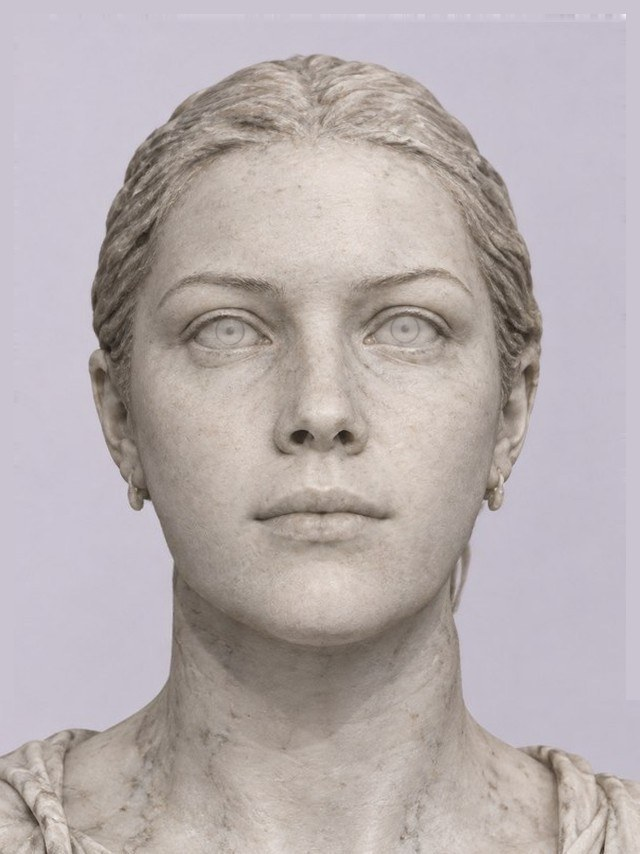
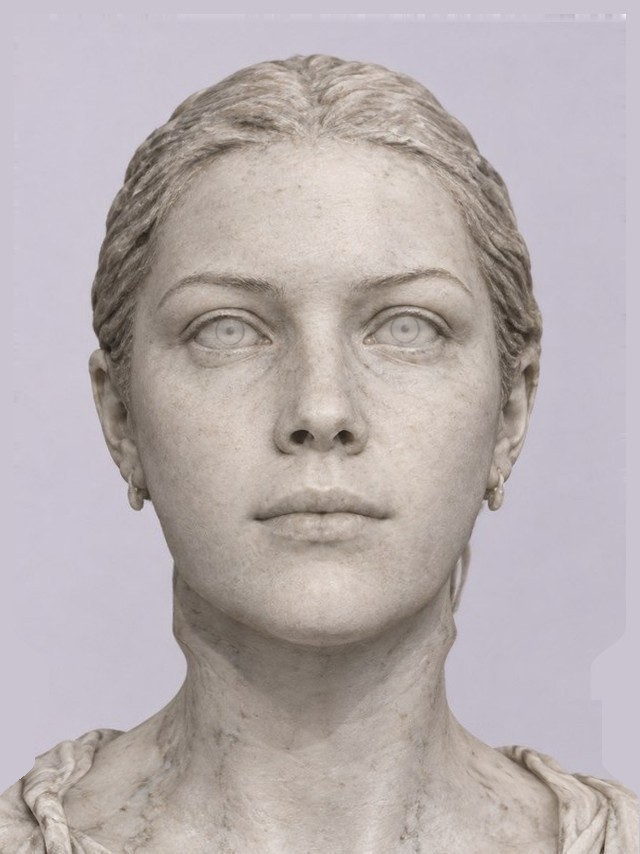
About us: cuello de Sarah más delgado; nariz de Felipe más larga y ojos con más contraste

diff --git a/de/about-us/index.html b/de/about-us/index.html
@@ -89,7 +89,7 @@
           <div class="fl-grid"><div class="fl-obra"><h4>The Heart Is Not a Bomb</h4><ul><li><span class="fl-cat">Official Selection</span> <span class="fl-fest">Cine y Derechos Humanos</span> <span class="fl-pais">Spain · 2025</span></li><li><span class="fl-cat">Official Selection</span> <span class="fl-fest">InShadow</span> <span class="fl-pais">Portugal · 2025</span></li><li><span class="fl-cat">Official Selection</span> <span class="fl-fest">Mexico City Videodance</span> <span class="fl-pais">Mexico · 2025</span></li></ul></div><div class="fl-obra"><h4>To Dwell</h4><ul><li class="premio"><span class="fl-cat">Best Choreography</span> <span class="fl-fest">Movimiento Audiovisual</span> <span class="fl-pais">Mexico · 2023</span></li><li><span class="fl-cat">Official Selection</span> <span class="fl-fest">Max Sir</span> <span class="fl-pais">Ukraine · 2024</span></li><li><span class="fl-cat">Official Selection</span> <span class="fl-fest">Bridges</span> <span class="fl-pais">United States · 2023</span></li><li><span class="fl-cat">Official Selection</span> <span class="fl-fest">Cuerpo Digital</span> <span class="fl-pais">Bolivia · 2023</span></li></ul></div><div class="fl-obra"><h4>Ahora Somos Nosotres</h4><ul><li class="premio"><span class="fl-cat">Best Sound &amp; Music</span> <span class="fl-fest">Style, Experimental, Fashion Film Festival</span> <span class="fl-pais">2023</span></li><li><span class="fl-cat">Official Selection</span> <span class="fl-fest">Style, Experimental, Fashion Film Festival</span> <span class="fl-pais">2023</span></li></ul></div><div class="fl-obra"><h4>Ecdysis: Actions for Shedding Skin. Liquefy</h4><ul><li><span class="fl-cat">Official Selection</span> <span class="fl-fest">Cine Bio-Bío</span> <span class="fl-pais">Chile</span></li><li><span class="fl-cat">Official Selection</span> <span class="fl-fest">Santiago a Mil</span> <span class="fl-pais">Chile</span></li></ul></div><div class="fl-obra"><h4>Escape</h4><ul><li class="premio"><span class="fl-cat">Honorable Mention</span> <span class="fl-fest">Mexico City Videodance</span> <span class="fl-pais">Mexico · 2021</span></li><li class="premio"><span class="fl-cat">Finalist</span> <span class="fl-fest">Dance Camera West</span> <span class="fl-pais">United States</span></li><li><span class="fl-cat">Official Selection</span> <span class="fl-fest">Bucharest Dance Film</span> <span class="fl-pais">Romania · 2020</span></li><li><span class="fl-cat">Official Selection</span> <span class="fl-fest">InShadow</span> <span class="fl-pais">Portugal · 2020</span></li><li><span class="fl-cat">Official Selection</span> <span class="fl-fest">LA Dance Shorts</span> <span class="fl-pais">United States · 2020</span></li><li><span class="fl-cat">Official Selection</span> <span class="fl-fest">Screendance Miami</span> <span class="fl-pais">United States · 2021</span></li><li><span class="fl-cat">Official Selection</span> <span class="fl-fest">CAPITOL Dance &amp; Cinema</span> <span class="fl-pais">United States · 2020</span></li><li><span class="fl-cat">Official Selection</span> <span class="fl-fest">Cascadia Dance &amp; Cinema</span> <span class="fl-pais">Canada · 2020</span></li><li><span class="fl-cat">Official Selection</span> <span class="fl-fest">Artes Mediales</span> <span class="fl-pais">Chile</span></li><li><span class="fl-cat">Official Selection</span> <span class="fl-fest">Fintdaz</span> <span class="fl-pais">Chile · 2020</span></li></ul></div><div class="fl-obra"><h4>misoginia Pandora</h4><ul><li class="premio"><span class="fl-cat">Best Film</span> <span class="fl-fest">Imagitari DJK Fest</span> <span class="fl-pais">Indonesia · 2018</span></li><li><span class="fl-cat">Official Selection</span> <span class="fl-fest">Iowa ScreenDance</span> <span class="fl-pais">United States</span></li><li><span class="fl-cat">Official Selection</span> <span class="fl-fest">Festival ABC</span> <span class="fl-pais">Spain</span></li><li><span class="fl-cat">Official Selection</span> <span class="fl-fest">Dança em Foco</span> <span class="fl-pais">Brazil</span></li><li><span class="fl-cat">Official Selection</span> <span class="fl-fest">Video Danza Chile</span> <span class="fl-pais">Chile · 2017</span></li><li><span class="fl-cat">Official Selection</span> <span class="fl-fest">Cine Ituzaingó</span> <span class="fl-pais">Argentina</span></li><li><span class="fl-cat">Official Selection</span> <span class="fl-fest">Flexiff</span> <span class="fl-pais">Australia · 2017</span></li><li><span class="fl-cat">Official Selection</span> <span class="fl-fest">FIDIC Cocoa</span> <span class="fl-pais">Argentina</span></li><li><span class="fl-cat">Official Selection</span> <span class="fl-fest">Intermediaciones</span> <span class="fl-pais">Colombia</span></li><li><span class="fl-cat">Official Selection</span> <span class="fl-fest">São Carlos Videodance</span> <span class="fl-pais">Brazil</span></li><li><span class="fl-cat">Official Selection</span> <span class="fl-fest">La mida no importa</span> <span class="fl-pais">Spain</span></li><li><span class="fl-cat">Official Selection</span> <span class="fl-fest">Bugarte</span> <span class="fl-pais">Colombia · 2017</span></li><li><span class="fl-cat">Official Selection</span> <span class="fl-fest">MiTS</span> <span class="fl-pais">Spain</span></li><li><span class="fl-cat">Official Selection</span> <span class="fl-fest">Sardinian Festival</span> <span class="fl-pais">Italy</span></li><li><span class="fl-cat">Official Selection</span> <span class="fl-fest">CCPC</span> <span class="fl-pais">Costa Rica</span></li><li><span class="fl-cat">Official Selection</span> <span class="fl-fest">Bekraf Fest</span> <span class="fl-pais">Indonesia</span></li><li><span class="fl-cat">Official Selection</span> <span class="fl-fest">FICESMI</span> <span class="fl-pais">Argentina</span></li></ul></div><div class="fl-obra"><h4>misoginia EVA</h4><ul><li><span class="fl-cat">Official Selection</span> <span class="fl-fest">Danzalborde</span> <span class="fl-pais">Chile · 2016</span></li><li><span class="fl-cat">Official Selection</span> <span class="fl-fest">InVe</span> <span class="fl-pais">Chile · 2016</span></li><li><span class="fl-cat">Official Selection</span> <span class="fl-fest">Athens Video Dance Project</span> <span class="fl-pais">Griechenland · 2016</span></li><li><span class="fl-cat">Official Selection</span> <span class="fl-fest">El Cruce</span> <span class="fl-pais">Argentina · 2016</span></li><li><span class="fl-cat">Official Selection</span> <span class="fl-fest">LUMEN</span> <span class="fl-pais">Chile · 2016</span></li></ul></div><div class="fl-obra"><h4>SUBE / Al aire el río</h4><ul><li class="premio"><span class="fl-cat">Gewinner</span> <span class="fl-fest">Animal &amp; Environmental</span> <span class="fl-pais">Mexico · 2021</span></li><li><span class="fl-cat">Official Selection</span> <span class="fl-fest">AQP Festival</span> <span class="fl-pais">Peru · 2021</span></li><li><span class="fl-cat">Official Selection</span> <span class="fl-fest">Cinelebu</span> <span class="fl-pais">Chile · 2022</span></li></ul></div><div class="fl-obra"><h4>SUBE / Ramato</h4><ul><li><span class="fl-cat">Official Selection</span> <span class="fl-fest">BioBioCine</span> <span class="fl-pais">Chile · 2019</span></li></ul></div></div>
         </details>
         <div class="director">
-          <span class="estatua" tabindex="0"><img class="director-foto" src="../../img/director.jpg?v=2" alt="Felipe Díaz Galarce" width="640" height="854" loading="lazy"><img class="director-foto marmol" src="../../img/director-estatua.jpg?v=8" alt="" aria-hidden="true" width="640" height="854" loading="lazy"></span>
+          <span class="estatua" tabindex="0"><img class="director-foto" src="../../img/director.jpg?v=2" alt="Felipe Díaz Galarce" width="640" height="854" loading="lazy"><img class="director-foto marmol" src="../../img/director-estatua.jpg?v=9" alt="" aria-hidden="true" width="640" height="854" loading="lazy"></span>
           <div>
             <p class="firma"><strong>Felipe Díaz Galarce</strong> — Regisseur</p>
         <p>Vor dem Film zwölf Jahre Theater als Schauspieler, Autor und Regisseur sowie Produzent der Theaterkompanie Turba (2009–2019). Er tanzt zeitgenössischen Tanz und Contact Improvisation mit der Kompanie <strong>mundomoebio</strong>, mit der er in Argentinien, Peru, Chile, Brasilien, Kanada und China aufgetreten ist.</p>
@@ -98,7 +98,7 @@
           </div>
         </div>
         <div class="director socia">
-          <span class="estatua" tabindex="0"><img class="director-foto" src="../../img/sarah.jpg?v=3" alt="Sarah Stachova" width="640" height="854" loading="lazy"><img class="director-foto marmol" src="../../img/sarah-estatua.jpg?v=9" alt="" aria-hidden="true" width="640" height="854" loading="lazy"></span>
+          <span class="estatua" tabindex="0"><img class="director-foto" src="../../img/sarah.jpg?v=3" alt="Sarah Stachova" width="640" height="854" loading="lazy"><img class="director-foto marmol" src="../../img/sarah-estatua.jpg?v=10" alt="" aria-hidden="true" width="640" height="854" loading="lazy"></span>
           <div>
             <p class="firma"><strong>Sarah Stachova</strong> — Management &amp; Kommunikation</p>
             <p>Management und Kommunikation, Deutsch als Muttersprache; sie spricht außerdem Englisch, Spanisch und Slowakisch.</p>

diff --git a/es/about-us/index.html b/es/about-us/index.html
@@ -89,7 +89,7 @@
           <div class="fl-grid"><div class="fl-obra"><h4>El corazón no es una bomba</h4><ul><li><span class="fl-cat">Official Selection</span> <span class="fl-fest">Cine y Derechos Humanos</span> <span class="fl-pais">Spain · 2025</span></li><li><span class="fl-cat">Official Selection</span> <span class="fl-fest">InShadow</span> <span class="fl-pais">Portugal · 2025</span></li><li><span class="fl-cat">Official Selection</span> <span class="fl-fest">Mexico City Videodance</span> <span class="fl-pais">Mexico · 2025</span></li></ul></div><div class="fl-obra"><h4>Morar</h4><ul><li class="premio"><span class="fl-cat">Best Choreography</span> <span class="fl-fest">Movimiento Audiovisual</span> <span class="fl-pais">Mexico · 2023</span></li><li><span class="fl-cat">Official Selection</span> <span class="fl-fest">Max Sir</span> <span class="fl-pais">Ukraine · 2024</span></li><li><span class="fl-cat">Official Selection</span> <span class="fl-fest">Bridges</span> <span class="fl-pais">United States · 2023</span></li><li><span class="fl-cat">Official Selection</span> <span class="fl-fest">Cuerpo Digital</span> <span class="fl-pais">Bolivia · 2023</span></li></ul></div><div class="fl-obra"><h4>Ahora Somos Nosotres</h4><ul><li class="premio"><span class="fl-cat">Best Sound &amp; Music</span> <span class="fl-fest">Style, Experimental, Fashion Film Festival</span> <span class="fl-pais">2023</span></li><li><span class="fl-cat">Official Selection</span> <span class="fl-fest">Style, Experimental, Fashion Film Festival</span> <span class="fl-pais">2023</span></li></ul></div><div class="fl-obra"><h4>Ecdisis acciones para mudar de piel. Licuar</h4><ul><li><span class="fl-cat">Official Selection</span> <span class="fl-fest">Cine Bio-Bío</span> <span class="fl-pais">Chile</span></li><li><span class="fl-cat">Official Selection</span> <span class="fl-fest">Santiago a Mil</span> <span class="fl-pais">Chile</span></li></ul></div><div class="fl-obra"><h4>Escape</h4><ul><li class="premio"><span class="fl-cat">Honorable Mention</span> <span class="fl-fest">Mexico City Videodance</span> <span class="fl-pais">Mexico · 2021</span></li><li class="premio"><span class="fl-cat">Finalist</span> <span class="fl-fest">Dance Camera West</span> <span class="fl-pais">United States</span></li><li><span class="fl-cat">Official Selection</span> <span class="fl-fest">Bucharest Dance Film</span> <span class="fl-pais">Romania · 2020</span></li><li><span class="fl-cat">Official Selection</span> <span class="fl-fest">InShadow</span> <span class="fl-pais">Portugal · 2020</span></li><li><span class="fl-cat">Official Selection</span> <span class="fl-fest">LA Dance Shorts</span> <span class="fl-pais">United States · 2020</span></li><li><span class="fl-cat">Official Selection</span> <span class="fl-fest">Screendance Miami</span> <span class="fl-pais">United States · 2021</span></li><li><span class="fl-cat">Official Selection</span> <span class="fl-fest">CAPITOL Dance &amp; Cinema</span> <span class="fl-pais">United States · 2020</span></li><li><span class="fl-cat">Official Selection</span> <span class="fl-fest">Cascadia Dance &amp; Cinema</span> <span class="fl-pais">Canada · 2020</span></li><li><span class="fl-cat">Official Selection</span> <span class="fl-fest">Artes Mediales</span> <span class="fl-pais">Chile</span></li><li><span class="fl-cat">Official Selection</span> <span class="fl-fest">Fintdaz</span> <span class="fl-pais">Chile · 2020</span></li></ul></div><div class="fl-obra"><h4>misoginia Pandora</h4><ul><li class="premio"><span class="fl-cat">Best Film</span> <span class="fl-fest">Imagitari DJK Fest</span> <span class="fl-pais">Indonesia · 2018</span></li><li><span class="fl-cat">Official Selection</span> <span class="fl-fest">Iowa ScreenDance</span> <span class="fl-pais">United States</span></li><li><span class="fl-cat">Official Selection</span> <span class="fl-fest">Festival ABC</span> <span class="fl-pais">Spain</span></li><li><span class="fl-cat">Official Selection</span> <span class="fl-fest">Dança em Foco</span> <span class="fl-pais">Brazil</span></li><li><span class="fl-cat">Official Selection</span> <span class="fl-fest">Video Danza Chile</span> <span class="fl-pais">Chile · 2017</span></li><li><span class="fl-cat">Official Selection</span> <span class="fl-fest">Cine Ituzaingó</span> <span class="fl-pais">Argentina</span></li><li><span class="fl-cat">Official Selection</span> <span class="fl-fest">Flexiff</span> <span class="fl-pais">Australia · 2017</span></li><li><span class="fl-cat">Official Selection</span> <span class="fl-fest">FIDIC Cocoa</span> <span class="fl-pais">Argentina</span></li><li><span class="fl-cat">Official Selection</span> <span class="fl-fest">Intermediaciones</span> <span class="fl-pais">Colombia</span></li><li><span class="fl-cat">Official Selection</span> <span class="fl-fest">São Carlos Videodance</span> <span class="fl-pais">Brazil</span></li><li><span class="fl-cat">Official Selection</span> <span class="fl-fest">La mida no importa</span> <span class="fl-pais">Spain</span></li><li><span class="fl-cat">Official Selection</span> <span class="fl-fest">Bugarte</span> <span class="fl-pais">Colombia · 2017</span></li><li><span class="fl-cat">Official Selection</span> <span class="fl-fest">MiTS</span> <span class="fl-pais">Spain</span></li><li><span class="fl-cat">Official Selection</span> <span class="fl-fest">Sardinian Festival</span> <span class="fl-pais">Italy</span></li><li><span class="fl-cat">Official Selection</span> <span class="fl-fest">CCPC</span> <span class="fl-pais">Costa Rica</span></li><li><span class="fl-cat">Official Selection</span> <span class="fl-fest">Bekraf Fest</span> <span class="fl-pais">Indonesia</span></li><li><span class="fl-cat">Official Selection</span> <span class="fl-fest">FICESMI</span> <span class="fl-pais">Argentina</span></li></ul></div><div class="fl-obra"><h4>misoginia EVA</h4><ul><li><span class="fl-cat">Official Selection</span> <span class="fl-fest">Danzalborde</span> <span class="fl-pais">Chile · 2016</span></li><li><span class="fl-cat">Official Selection</span> <span class="fl-fest">InVe</span> <span class="fl-pais">Chile · 2016</span></li><li><span class="fl-cat">Official Selection</span> <span class="fl-fest">Athens Video Dance Project</span> <span class="fl-pais">Grecia · 2016</span></li><li><span class="fl-cat">Official Selection</span> <span class="fl-fest">El Cruce</span> <span class="fl-pais">Argentina · 2016</span></li><li><span class="fl-cat">Official Selection</span> <span class="fl-fest">LUMEN</span> <span class="fl-pais">Chile · 2016</span></li></ul></div><div class="fl-obra"><h4>SUBE / Al aire el río</h4><ul><li class="premio"><span class="fl-cat">Ganador</span> <span class="fl-fest">Animal &amp; Environmental</span> <span class="fl-pais">Mexico · 2021</span></li><li><span class="fl-cat">Official Selection</span> <span class="fl-fest">AQP Festival</span> <span class="fl-pais">Peru · 2021</span></li><li><span class="fl-cat">Official Selection</span> <span class="fl-fest">Cinelebu</span> <span class="fl-pais">Chile · 2022</span></li></ul></div><div class="fl-obra"><h4>SUBE / Ramato</h4><ul><li><span class="fl-cat">Official Selection</span> <span class="fl-fest">BioBioCine</span> <span class="fl-pais">Chile · 2019</span></li></ul></div></div>
         </details>
         <div class="director">
-          <span class="estatua" tabindex="0"><img class="director-foto" src="../../img/director.jpg?v=2" alt="Felipe Díaz Galarce" width="640" height="854" loading="lazy"><img class="director-foto marmol" src="../../img/director-estatua.jpg?v=8" alt="" aria-hidden="true" width="640" height="854" loading="lazy"></span>
+          <span class="estatua" tabindex="0"><img class="director-foto" src="../../img/director.jpg?v=2" alt="Felipe Díaz Galarce" width="640" height="854" loading="lazy"><img class="director-foto marmol" src="../../img/director-estatua.jpg?v=9" alt="" aria-hidden="true" width="640" height="854" loading="lazy"></span>
           <div>
             <p class="firma"><strong>Felipe Díaz Galarce</strong> — Director</p>
         <p>Antes del cine, doce años de teatro como actor, dramaturgo y director, y productor de la compañía Turba entre 2009 y 2019. Practica danza contemporánea y contacto improvisación con la compañía <strong>mundomoebio</strong>, con la que se ha presentado en Argentina, Perú, Chile, Brasil, Canadá y China.</p>
@@ -98,7 +98,7 @@
           </div>
         </div>
         <div class="director socia">
-          <span class="estatua" tabindex="0"><img class="director-foto" src="../../img/sarah.jpg?v=3" alt="Sarah Stachova" width="640" height="854" loading="lazy"><img class="director-foto marmol" src="../../img/sarah-estatua.jpg?v=9" alt="" aria-hidden="true" width="640" height="854" loading="lazy"></span>
+          <span class="estatua" tabindex="0"><img class="director-foto" src="../../img/sarah.jpg?v=3" alt="Sarah Stachova" width="640" height="854" loading="lazy"><img class="director-foto marmol" src="../../img/sarah-estatua.jpg?v=10" alt="" aria-hidden="true" width="640" height="854" loading="lazy"></span>
           <div>
             <p class="firma"><strong>Sarah Stachova</strong> — Gestión y comunicación</p>
             <p>Gestión y comunicación, alemán como lengua materna; también habla inglés, español y eslovaco.</p>

diff --git a/about-us/index.html b/about-us/index.html
@@ -88,7 +88,7 @@
           <div class="fl-grid"><div class="fl-obra"><h4>The Heart Is Not a Bomb</h4><ul><li><span class="fl-cat">Official Selection</span> <span class="fl-fest">Cine y Derechos Humanos</span> <span class="fl-pais">Spain · 2025</span></li><li><span class="fl-cat">Official Selection</span> <span class="fl-fest">InShadow</span> <span class="fl-pais">Portugal · 2025</span></li><li><span class="fl-cat">Official Selection</span> <span class="fl-fest">Mexico City Videodance</span> <span class="fl-pais">Mexico · 2025</span></li></ul></div><div class="fl-obra"><h4>To Dwell</h4><ul><li class="premio"><span class="fl-cat">Best Choreography</span> <span class="fl-fest">Movimiento Audiovisual</span> <span class="fl-pais">Mexico · 2023</span></li><li><span class="fl-cat">Official Selection</span> <span class="fl-fest">Max Sir</span> <span class="fl-pais">Ukraine · 2024</span></li><li><span class="fl-cat">Official Selection</span> <span class="fl-fest">Bridges</span> <span class="fl-pais">United States · 2023</span></li><li><span class="fl-cat">Official Selection</span> <span class="fl-fest">Cuerpo Digital</span> <span class="fl-pais">Bolivia · 2023</span></li></ul></div><div class="fl-obra"><h4>Ahora Somos Nosotres</h4><ul><li class="premio"><span class="fl-cat">Best Sound &amp; Music</span> <span class="fl-fest">Style, Experimental, Fashion Film Festival</span> <span class="fl-pais">2023</span></li><li><span class="fl-cat">Official Selection</span> <span class="fl-fest">Style, Experimental, Fashion Film Festival</span> <span class="fl-pais">2023</span></li></ul></div><div class="fl-obra"><h4>Ecdysis: Actions for Shedding Skin. Liquefy</h4><ul><li><span class="fl-cat">Official Selection</span> <span class="fl-fest">Cine Bio-Bío</span> <span class="fl-pais">Chile</span></li><li><span class="fl-cat">Official Selection</span> <span class="fl-fest">Santiago a Mil</span> <span class="fl-pais">Chile</span></li></ul></div><div class="fl-obra"><h4>Escape</h4><ul><li class="premio"><span class="fl-cat">Honorable Mention</span> <span class="fl-fest">Mexico City Videodance</span> <span class="fl-pais">Mexico · 2021</span></li><li class="premio"><span class="fl-cat">Finalist</span> <span class="fl-fest">Dance Camera West</span> <span class="fl-pais">United States</span></li><li><span class="fl-cat">Official Selection</span> <span class="fl-fest">Bucharest Dance Film</span> <span class="fl-pais">Romania · 2020</span></li><li><span class="fl-cat">Official Selection</span> <span class="fl-fest">InShadow</span> <span class="fl-pais">Portugal · 2020</span></li><li><span class="fl-cat">Official Selection</span> <span class="fl-fest">LA Dance Shorts</span> <span class="fl-pais">United States · 2020</span></li><li><span class="fl-cat">Official Selection</span> <span class="fl-fest">Screendance Miami</span> <span class="fl-pais">United States · 2021</span></li><li><span class="fl-cat">Official Selection</span> <span class="fl-fest">CAPITOL Dance &amp; Cinema</span> <span class="fl-pais">United States · 2020</span></li><li><span class="fl-cat">Official Selection</span> <span class="fl-fest">Cascadia Dance &amp; Cinema</span> <span class="fl-pais">Canada · 2020</span></li><li><span class="fl-cat">Official Selection</span> <span class="fl-fest">Artes Mediales</span> <span class="fl-pais">Chile</span></li><li><span class="fl-cat">Official Selection</span> <span class="fl-fest">Fintdaz</span> <span class="fl-pais">Chile · 2020</span></li></ul></div><div class="fl-obra"><h4>misoginia Pandora</h4><ul><li class="premio"><span class="fl-cat">Best Film</span> <span class="fl-fest">Imagitari DJK Fest</span> <span class="fl-pais">Indonesia · 2018</span></li><li><span class="fl-cat">Official Selection</span> <span class="fl-fest">Iowa ScreenDance</span> <span class="fl-pais">United States</span></li><li><span class="fl-cat">Official Selection</span> <span class="fl-fest">Festival ABC</span> <span class="fl-pais">Spain</span></li><li><span class="fl-cat">Official Selection</span> <span class="fl-fest">Dança em Foco</span> <span class="fl-pais">Brazil</span></li><li><span class="fl-cat">Official Selection</span> <span class="fl-fest">Video Danza Chile</span> <span class="fl-pais">Chile · 2017</span></li><li><span class="fl-cat">Official Selection</span> <span class="fl-fest">Cine Ituzaingó</span> <span class="fl-pais">Argentina</span></li><li><span class="fl-cat">Official Selection</span> <span class="fl-fest">Flexiff</span> <span class="fl-pais">Australia · 2017</span></li><li><span class="fl-cat">Official Selection</span> <span class="fl-fest">FIDIC Cocoa</span> <span class="fl-pais">Argentina</span></li><li><span class="fl-cat">Official Selection</span> <span class="fl-fest">Intermediaciones</span> <span class="fl-pais">Colombia</span></li><li><span class="fl-cat">Official Selection</span> <span class="fl-fest">São Carlos Videodance</span> <span class="fl-pais">Brazil</span></li><li><span class="fl-cat">Official Selection</span> <span class="fl-fest">La mida no importa</span> <span class="fl-pais">Spain</span></li><li><span class="fl-cat">Official Selection</span> <span class="fl-fest">Bugarte</span> <span class="fl-pais">Colombia · 2017</span></li><li><span class="fl-cat">Official Selection</span> <span class="fl-fest">MiTS</span> <span class="fl-pais">Spain</span></li><li><span class="fl-cat">Official Selection</span> <span class="fl-fest">Sardinian Festival</span> <span class="fl-pais">Italy</span></li><li><span class="fl-cat">Official Selection</span> <span class="fl-fest">CCPC</span> <span class="fl-pais">Costa Rica</span></li><li><span class="fl-cat">Official Selection</span> <span class="fl-fest">Bekraf Fest</span> <span class="fl-pais">Indonesia</span></li><li><span class="fl-cat">Official Selection</span> <span class="fl-fest">FICESMI</span> <span class="fl-pais">Argentina</span></li></ul></div><div class="fl-obra"><h4>misoginia EVA</h4><ul><li><span class="fl-cat">Official Selection</span> <span class="fl-fest">Danzalborde</span> <span class="fl-pais">Chile · 2016</span></li><li><span class="fl-cat">Official Selection</span> <span class="fl-fest">InVe</span> <span class="fl-pais">Chile · 2016</span></li><li><span class="fl-cat">Official Selection</span> <span class="fl-fest">Athens Video Dance Project</span> <span class="fl-pais">Greece · 2016</span></li><li><span class="fl-cat">Official Selection</span> <span class="fl-fest">El Cruce</span> <span class="fl-pais">Argentina · 2016</span></li><li><span class="fl-cat">Official Selection</span> <span class="fl-fest">LUMEN</span> <span class="fl-pais">Chile · 2016</span></li></ul></div><div class="fl-obra"><h4>SUBE / Al aire el río</h4><ul><li class="premio"><span class="fl-cat">Winner</span> <span class="fl-fest">Animal &amp; Environmental</span> <span class="fl-pais">Mexico · 2021</span></li><li><span class="fl-cat">Official Selection</span> <span class="fl-fest">AQP Festival</span> <span class="fl-pais">Peru · 2021</span></li><li><span class="fl-cat">Official Selection</span> <span class="fl-fest">Cinelebu</span> <span class="fl-pais">Chile · 2022</span></li></ul></div><div class="fl-obra"><h4>SUBE / Ramato</h4><ul><li><span class="fl-cat">Official Selection</span> <span class="fl-fest">BioBioCine</span> <span class="fl-pais">Chile · 2019</span></li></ul></div></div>
         </details>
         <div class="director">
-          <span class="estatua" tabindex="0"><img class="director-foto" src="../img/director.jpg?v=2" alt="Felipe Díaz Galarce" width="640" height="854" loading="lazy"><img class="director-foto marmol" src="../img/director-estatua.jpg?v=8" alt="" aria-hidden="true" width="640" height="854" loading="lazy"></span>
+          <span class="estatua" tabindex="0"><img class="director-foto" src="../img/director.jpg?v=2" alt="Felipe Díaz Galarce" width="640" height="854" loading="lazy"><img class="director-foto marmol" src="../img/director-estatua.jpg?v=9" alt="" aria-hidden="true" width="640" height="854" loading="lazy"></span>
           <div>
             <p class="firma"><strong>Felipe Díaz Galarce</strong> — Director</p>
         <p>Before cinema, twelve years in theatre as actor, playwright and director, and producer of the stage company Turba between 2009 and 2019. He dances contemporary and contact improvisation with the company <strong>mundomoebio</strong>, performing in Argentina, Peru, Chile, Brazil, Canada and China.</p>
@@ -97,7 +97,7 @@
           </div>
         </div>
         <div class="director socia">
-          <span class="estatua" tabindex="0"><img class="director-foto" src="../img/sarah.jpg?v=3" alt="Sarah Stachova" width="640" height="854" loading="lazy"><img class="director-foto marmol" src="../img/sarah-estatua.jpg?v=9" alt="" aria-hidden="true" width="640" height="854" loading="lazy"></span>
+          <span class="estatua" tabindex="0"><img class="director-foto" src="../img/sarah.jpg?v=3" alt="Sarah Stachova" width="640" height="854" loading="lazy"><img class="director-foto marmol" src="../img/sarah-estatua.jpg?v=10" alt="" aria-hidden="true" width="640" height="854" loading="lazy"></span>
           <div>
             <p class="firma"><strong>Sarah Stachova</strong> — Management &amp; Communication</p>
             <p>Management and communication, native German speaker; she also speaks English, Spanish and Slovak.</p>
